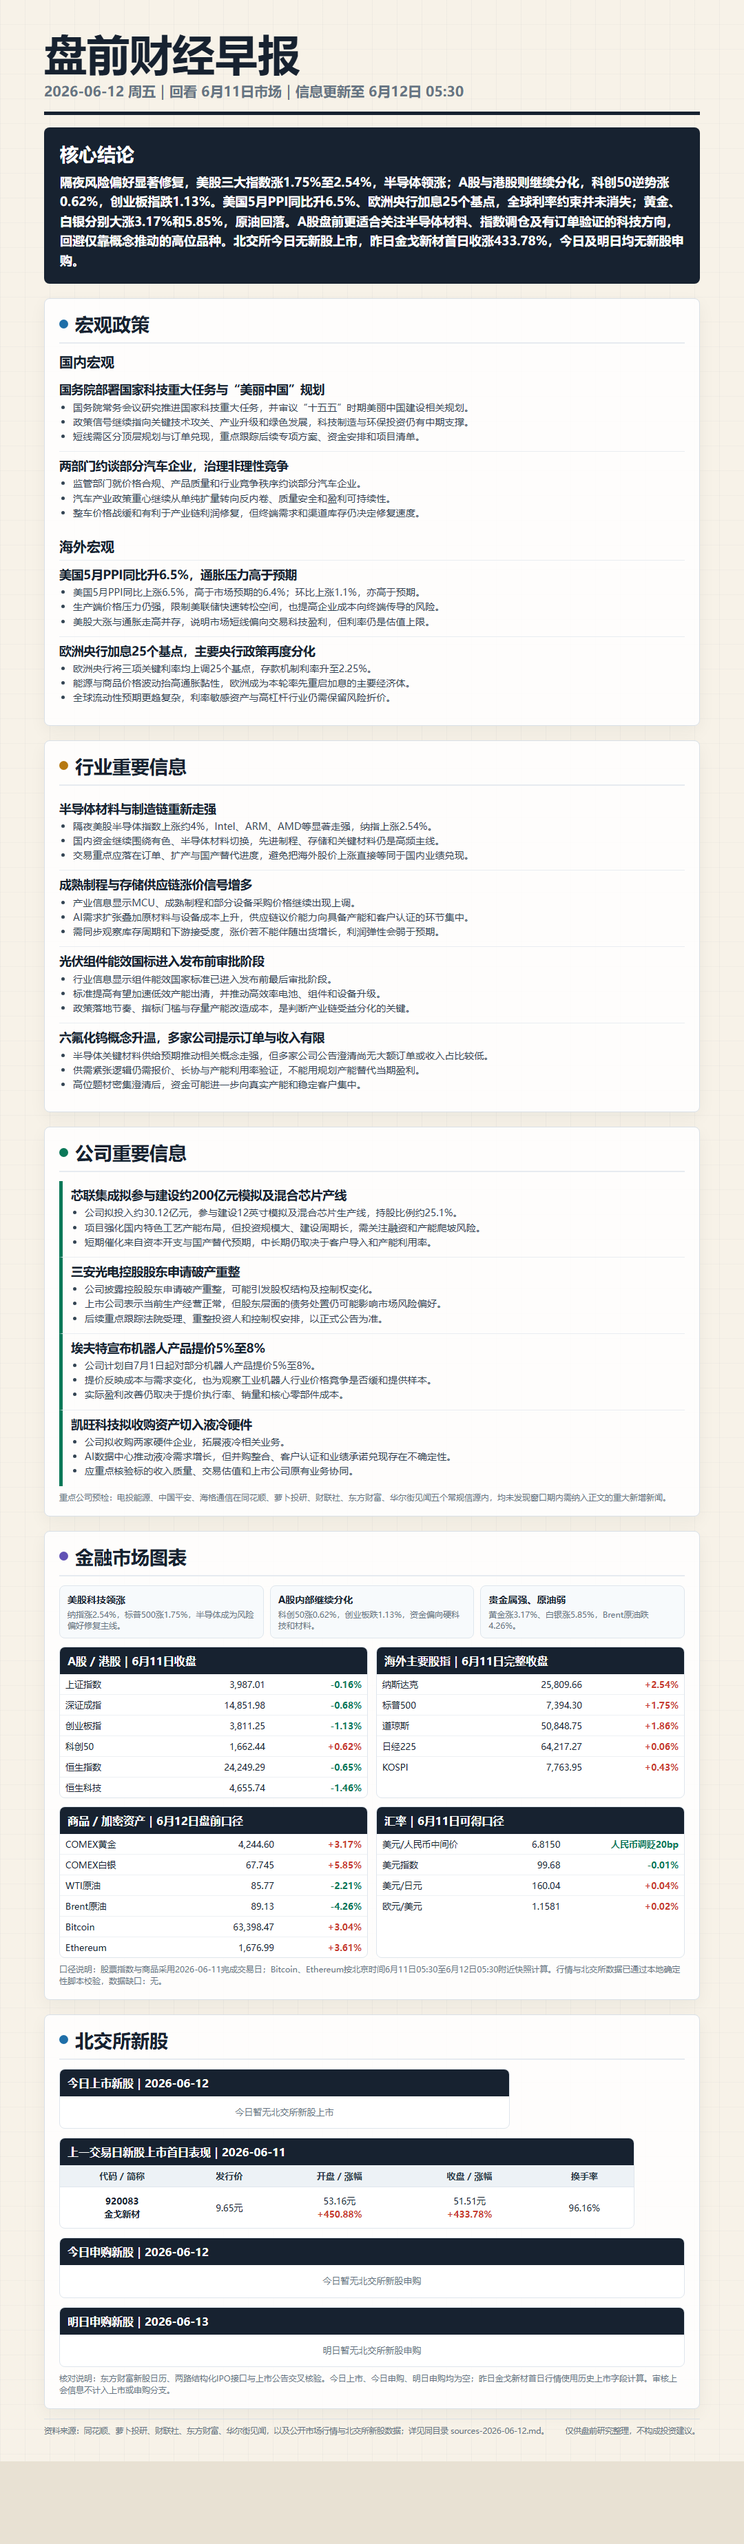
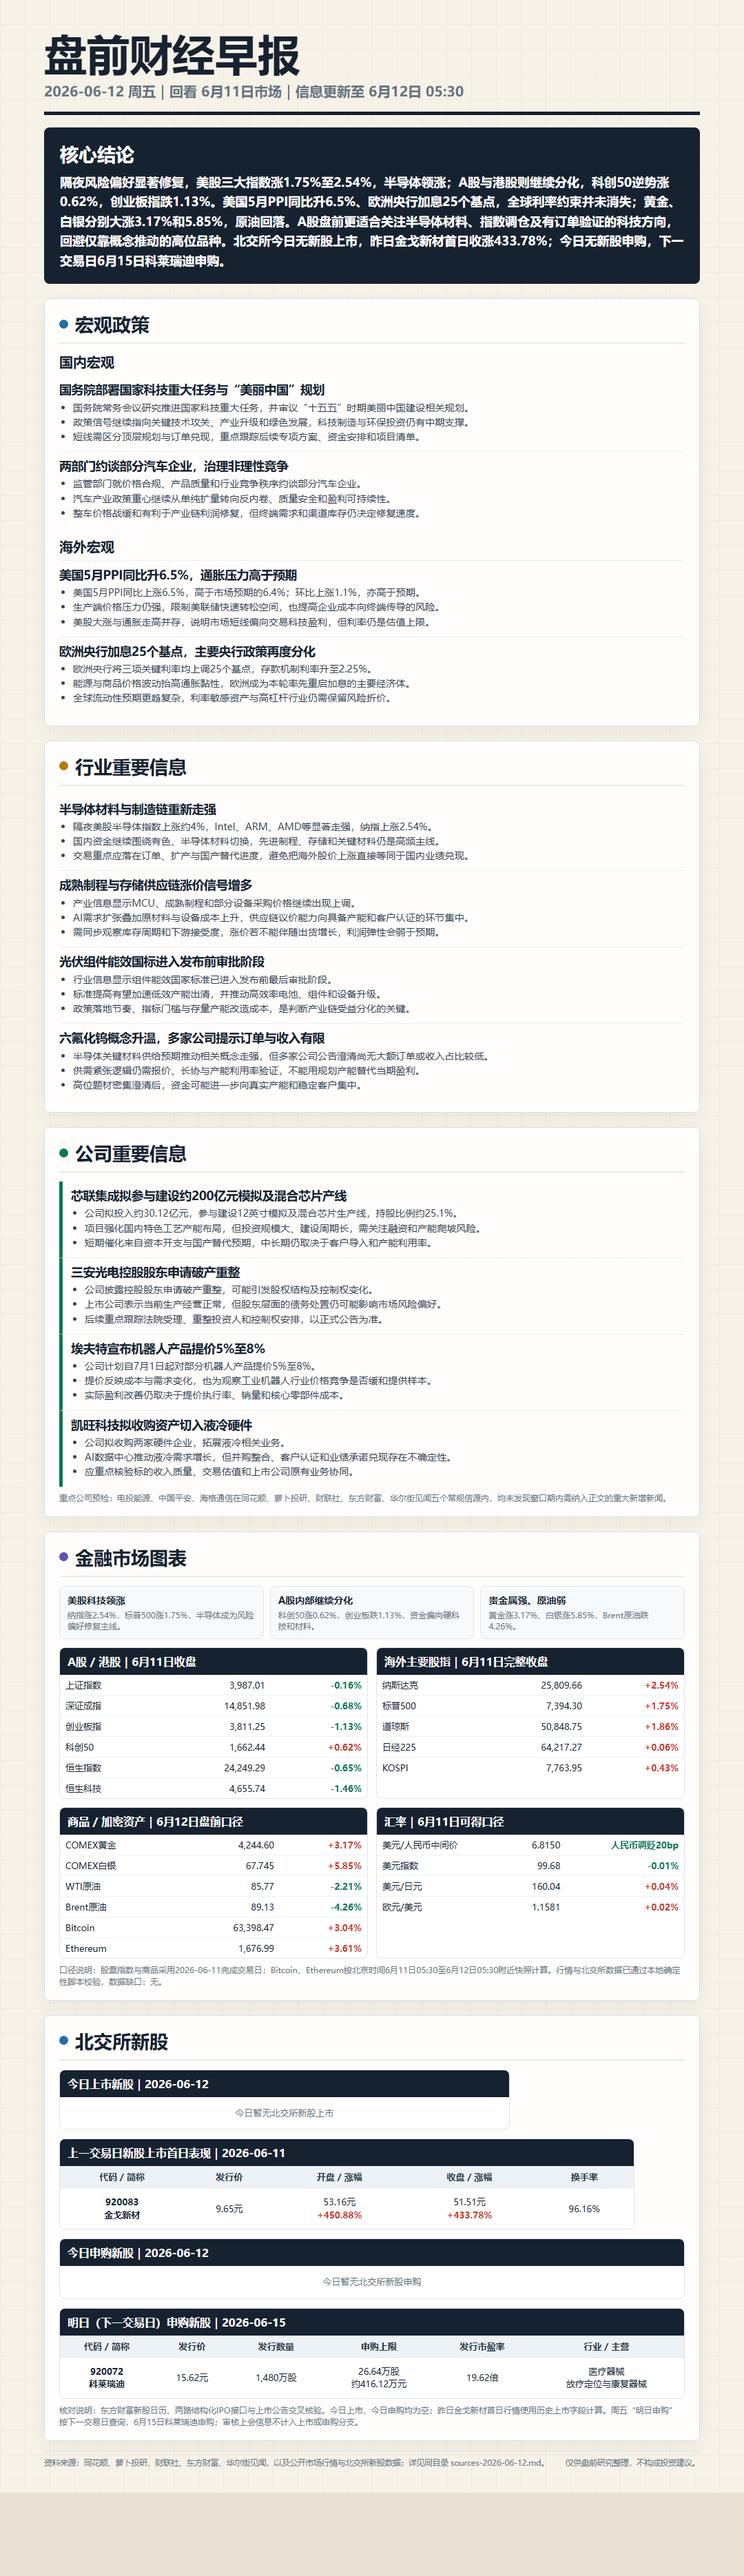
Publish 2026-06-12 morning brief

Changed region(s): [[0.0611, 0.0, 0.9472, 0.9651]]

diff --git a/2026-06-12/report.html b/2026-06-12/report.html
@@ -23,7 +23,7 @@
 </head>
 <body><main class="sheet">
   <header><h1>盘前财经早报</h1><div class="date">2026-06-12 周五｜回看 6月11日市场｜信息更新至 6月12日 05:30</div></header>
-  <section class="lead"><h2>核心结论</h2><p>隔夜风险偏好显著修复，美股三大指数涨1.75%至2.54%，半导体领涨；A股与港股则继续分化，科创50逆势涨0.62%，创业板指跌1.13%。美国5月PPI同比升6.5%、欧洲央行加息25个基点，全球利率约束并未消失；黄金、白银分别大涨3.17%和5.85%，原油回落。A股盘前更适合关注半导体材料、指数调仓及有订单验证的科技方向，回避仅靠概念推动的高位品种。北交所今日无新股上市，昨日金戈新材首日收涨433.78%，今日及明日均无新股申购。</p></section>
+  <section class="lead"><h2>核心结论</h2><p>隔夜风险偏好显著修复，美股三大指数涨1.75%至2.54%，半导体领涨；A股与港股则继续分化，科创50逆势涨0.62%，创业板指跌1.13%。美国5月PPI同比升6.5%、欧洲央行加息25个基点，全球利率约束并未消失；黄金、白银分别大涨3.17%和5.85%，原油回落。A股盘前更适合关注半导体材料、指数调仓及有订单验证的科技方向，回避仅靠概念推动的高位品种。北交所今日无新股上市，昨日金戈新材首日收涨433.78%；今日无新股申购，下一交易日6月15日科莱瑞迪申购。</p></section>
 
   <section class="section"><h2 class="section-title"><span class="dot"></span>宏观政策</h2>
     <h3 class="subhead">国内宏观</h3>
@@ -72,8 +72,8 @@
     <div class="ipo-box listing"><h3>今日上市新股｜2026-06-12</h3><table class="ipo-table"><tbody><tr><td class="empty">今日暂无北交所新股上市</td></tr></tbody></table></div>
     <div class="ipo-box performance"><h3>上一交易日新股上市首日表现｜2026-06-11</h3><table class="ipo-table"><thead><tr><th>代码 / 简称</th><th>发行价</th><th>开盘 / 涨幅</th><th>收盘 / 涨幅</th><th>换手率</th></tr></thead><tbody><tr><td class="codecell">920083<br>金戈新材</td><td>9.65元</td><td>53.16元<br><span class="up">+450.88%</span></td><td>51.51元<br><span class="up">+433.78%</span></td><td>96.16%</td></tr></tbody></table></div>
     <div class="ipo-box"><h3>今日申购新股｜2026-06-12</h3><table class="ipo-table"><tbody><tr><td class="empty">今日暂无北交所新股申购</td></tr></tbody></table></div>
-    <div class="ipo-box"><h3>明日申购新股｜2026-06-13</h3><table class="ipo-table"><tbody><tr><td class="empty">明日暂无北交所新股申购</td></tr></tbody></table></div>
-    <div class="check-note">核对说明：东方财富新股日历、两路结构化IPO接口与上市公告交叉核验。今日上市、今日申购、明日申购均为空；昨日金戈新材首日行情使用历史上市字段计算。审核上会信息不计入上市或申购分支。</div>
+    <div class="ipo-box"><h3>明日（下一交易日）申购新股｜2026-06-15</h3><table class="ipo-table"><thead><tr><th>代码 / 简称</th><th>发行价</th><th>发行数量</th><th>申购上限</th><th>发行市盈率</th><th>行业 / 主营</th></tr></thead><tbody><tr><td class="codecell">920072<br>科莱瑞迪</td><td>15.62元</td><td>1,480万股</td><td>26.64万股<br>约416.12万元</td><td>19.62倍</td><td>医疗器械<br>放疗定位与康复器械</td></tr></tbody></table></div>
+    <div class="check-note">核对说明：东方财富新股日历、两路结构化IPO接口与上市公告交叉核验。今日上市、今日申购均为空；昨日金戈新材首日行情使用历史上市字段计算。周五“明日申购”按下一交易日查询，6月15日科莱瑞迪申购；审核上会信息不计入上市或申购分支。</div>
   </section>
   <footer><div>资料来源：同花顺、萝卜投研、财联社、东方财富、华尔街见闻，以及公开市场行情与北交所新股数据；详见同目录 sources-2026-06-12.md。</div><div>仅供盘前研究整理，不构成投资建议。</div></footer>
 </main></body></html>

diff --git a/2026-06-12/sources-2026-06-12.md b/2026-06-12/sources-2026-06-12.md
@@ -72,12 +72,16 @@
 
 - 两路结构化IPO接口均为空；今日暂无。
 
-### 明日申购新股｜2026-06-13
+### 明日（下一交易日）申购新股｜2026-06-15
 
-- 两路结构化IPO接口均为空；明日暂无。
+- 科莱瑞迪（920072）申购，发行价15.62元，发行数量1,480万股，网上发行532.80万股，申购上限266,400股（按发行价计算约416.12万元），发行市盈率19.62倍。
+- 主营肿瘤放射治疗中的放疗定位装置及康复辅助器械，所属医药生物之医疗器械行业。
+- 周五报告的“明日申购”按下一交易日查询，下一个交易日为6月15日，而非自然日6月13日。
+  - https://www.bseinfo.net/disclosure/2026/2026-06-04/1780568904_961195.pdf
+  - https://stock.stockstar.com/ipo/ipo_detail_920072.html
 
 ## 制作与验证
 
 - 结构化数据文件：`validated-data.json`，状态为 `scope=all`、`status=ok`、`market.status=ok`、`bse.status=ok`。
 - 模板基准：2026-06-11日报版式。
-- 搜索摘要：共扫描5个固定财经网站；主题包括国内外宏观、行业、公司公告、市场行情、北交所四分支及3只重点公司点名检索。
+- 搜索摘要：共扫描5个固定财经网站；主题包括国内外宏观、行业、公司公告、市场行情、北交所四分支及3只重点公司点名检索。北交所申购另使用交易所披露及公开新股档案交叉核验。
